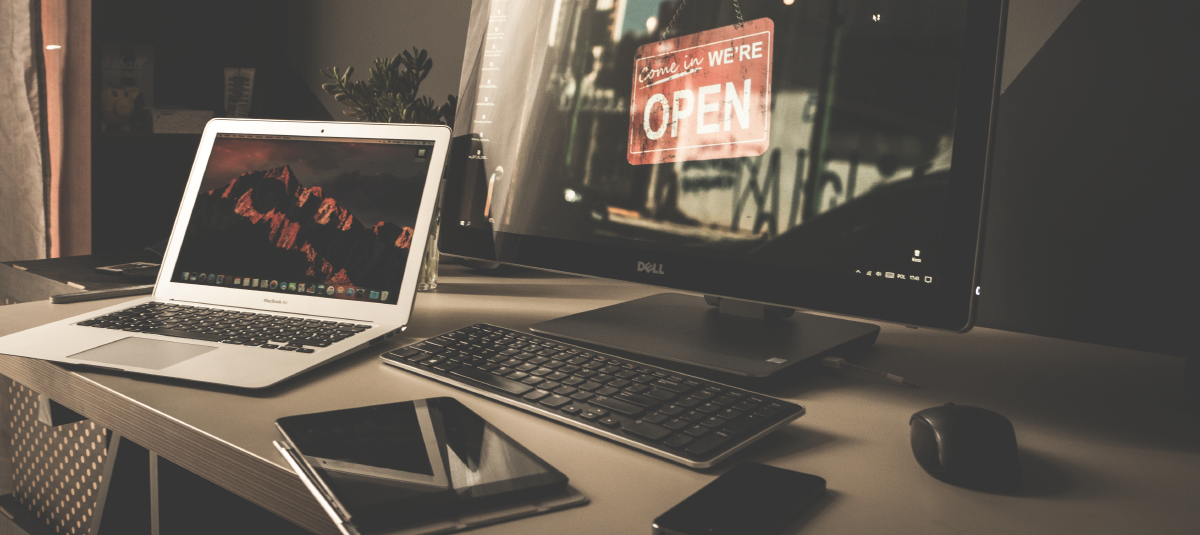
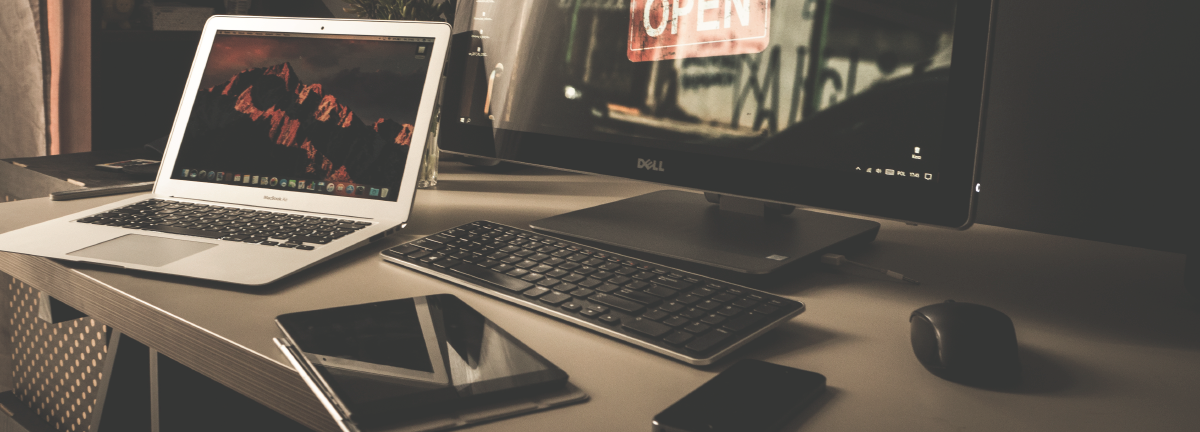
fixed cover image

diff --git a/index.html b/index.html
@@ -224,6 +224,7 @@
 												<h2>Event Organizer - <a href="http://gdgahmedabad.cloud/">Google
 														Developers Group Cloud Ahmedabad </a> <br> <span>March 2020 -
 														Present</span></h2>
+														<img src="images/cmw/gccd2.JPG" class="img-thumbnail"></img>
 												<p></p>
 											</div>
 										</div>
@@ -328,7 +329,7 @@
 												<i class="icon-check"></i>
 											</div>
 											<div class="timeline-label">
-												<h2><a href="#">IEEE Collabratec Lead Ambassador</a>
+												<h2><a href="#">Lead Ambassador - IEEE Collabratec </a>
 													<span>2017-2018</span></h2>
 												<p></p>
 											</div>
@@ -888,12 +889,12 @@
 											</div>
 
 											<div class="timeline-label">
-												<h2><a href="#">Google Cloud Cloud Community Day
+												<h2><a href="#">Google Cloud Community Day
 													</a> <span>2017-2018</span></h2>
 												<img src="images/cmw/GCCD.JPG" class="img-thumbnail"></img>
 												<div><br></div>
 
-												<img src="images/cmw/gccd2.JPG" class="img-thumbnail"></img>
+												
 
 												<div><br></div>
 												<p>Google Cloud Community Day is an International Conference on Google
